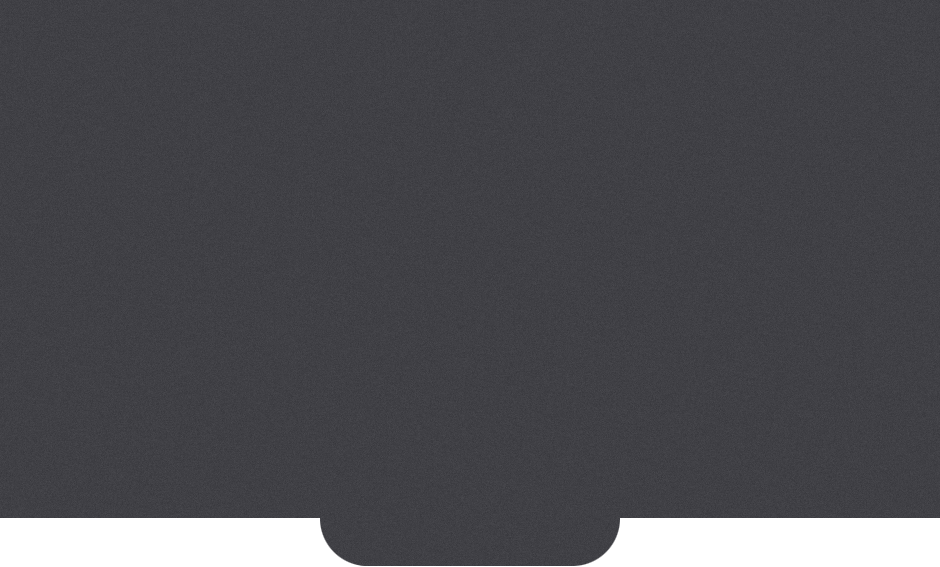
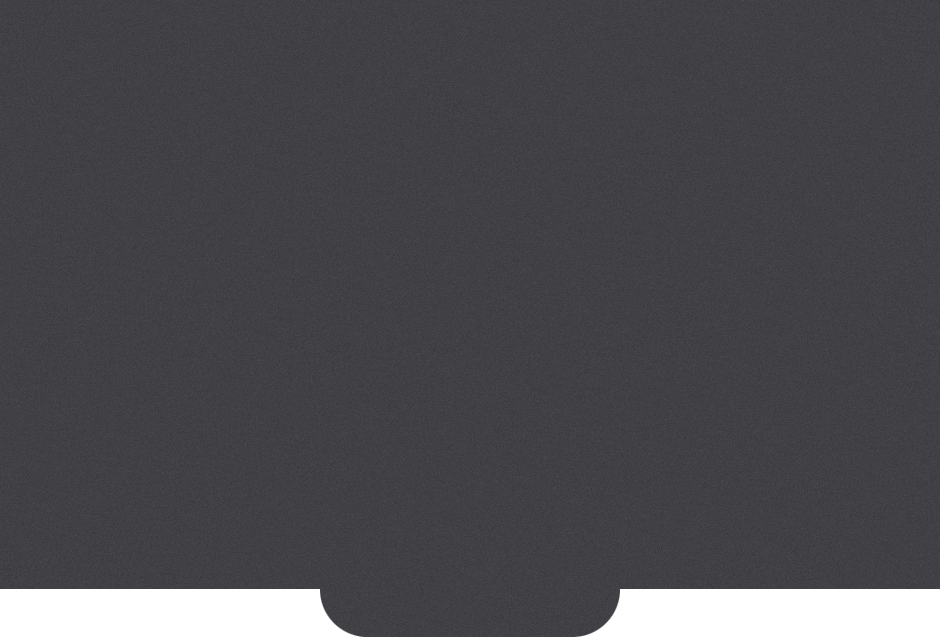
overhaul congress page, add franking text to widget generation page

diff --git a/site/templates/static/congress.html b/site/templates/static/congress.html
@@ -1,6 +1,6 @@
 {% extends "master.html" %}
 {% load registration_providers %}
-{% block title %}POPVOX - Your Voice. Verified. Quantified. Amplified.{% endblock %}
+{% block title %}POPVOX for Congress{% endblock %}
 {% block title2 %}{% endblock %}
 {% block description %}POPVOX bridges the gap between the input the public wants to provide and the information Members of Congress want and need to receive.{% endblock %}
 {% block bodyattributes %}class="land hm_congress"{% endblock %}
@@ -53,20 +53,20 @@ function subscribe(validate) {
 </div>
 <div class="clear"> </div>
 <div class="congress_mid">
-	<span><h3><a href="#">Let&rsquo;s get started</a></h3></span>
-	<div id="boxes"></div>
+	<span><h3><a href="/home">Let&rsquo;s get started</a></h3></span>
+	<div id="boxes"><center><div style="width:465px" id="__ss_12607898"><iframe src="http://www.slideshare.net/slideshow/embed_code/12607898?rel=0" width="425" height="355" frameborder="0" marginwidth="0" marginheight="0" scrolling="no" style="border:1px solid #CCC;border-width:1px 1px 0;margin-top:10px" allowfullscreen></iframe></center></div>
 	<div id="lists">
 		<ul class="first">
-			<li><a href="#">Create Widgets</a></li>
-			<li><a href="#">Get our iPad App</a></li>
+			<li><a href="/services/widgets">Create Widgets</a></li>
+			<li><a href="/ipad">Get our iPad App</a></li>
 		</ul>
 		<ul class="second">
-			<li><a href="#">View the Org Directory</a></li>
-			<li><a href="#">Use our API</a></li>
+			<li><a href="/orgs">View the Org Directory</a></li>
+			<li><a href="/api/docs">Use our API</a></li>
 		</ul>
 		<ul class="third">
-			<li><a href="#">Search for Bills</a></li>
-			<li><a href="#">Something else</a></li>
+			<li><a href="/bills">Browse Bills</a></li>
+			<li><a href="/gettoknow">Get To Know a District</a></li>
 		</ul>
 	</div>
 	
@@ -102,21 +102,7 @@ function subscribe(validate) {
 	
 	<div class="col_3 rule">
 		<div class="block signup">
-			<h2>Email Signup</h2>
-			<p>Want updates on what is new with POPVOX?</p>
-			<form id="signup_form" action="#" method="post" name="signup"><br />
-			
-				<input id="subscribe_email" class="signup_input" name="email" size="25" maxlength="60" type="text"><br />
-				
-				<p id="subscribe_status" class="error"></p>
-				
-				<input value="join" id="subscribe_button" onclick="return subscribe(false)" type="button">
-				<script>
-				$('.subscribe_email').input_default("email");
-				$('.signup_input').textchange(function() { subscribe(true); return true; });
-				$('.signup_input').keydown_enter(function() { return subscribe(false); });
-				</script>
-			</form>
+
 		</div>		
 	</div><!-- e: col_3 -->
 	

diff --git a/site/popvox/templates/popvox/services_widget_config.html b/site/popvox/templates/popvox/services_widget_config.html
@@ -352,7 +352,11 @@ function change_widget(tabname, is_initial) {
     }
 
     if (widgettype == "writecongress") {
-        $('#widget_description').html("The free “Write Congress” widget embeds the powerful POPVOX advocacy tool onto your own website. Your visitors weigh in on the bill you feature, POPVOX takes care of the rest!");
+        {% if franking == "true" %}
+            $('#widget_description').html("The free “Write Congress” widget embeds the powerful POPVOX advocacy tool onto your own website. Your visitors weigh in on the bill you feature, POPVOX takes care of the rest!");
+        {% else %}
+            $('#widget_description').html("The free “Write Congress” widget embeds the powerful POPVOX advocacy tool onto your own website. Your visitors weigh in on the bill you feature, POPVOX takes care of the rest!<br/><br/><em>Congressional Staff:</em> <a href='/accounts/register/legstaff'>sign up for a staff account</a> for a writecongress widget designed with franking in mind.");
+        {% endif %}
         $('#code').css({width: "450px"});
         $('.config_pane').css({width: '400px'});
         $('.preview_pane').css({width: '460px'});
@@ -609,8 +613,10 @@ function update_preview(is_initial) {
     if (widgettype == "bill_button") {
         $('#code2').show()
         $('#code2').val(make_code2("https://www.popvox.com", width, 21, false));
+        $('#preview2').show();
     } else {
         $('#code2').hide()
+        $('#preview2').hide();
     }
 
     fb_code = make_code("https://www.popvox.com", "520", height, false);

diff --git a/site/media/master/stylesheet.css b/site/media/master/stylesheet.css
@@ -3030,7 +3030,7 @@ body.land.hm_congress #wrap #head {
 	padding-left: 20px;
 }
 .hm_congress .congress_mid {
-	height: 564px;
+	height: 634px;
 	display: block;
 	background: url(cong_mid_bg.png) left top repeat;
 	padding-top: 2px;
@@ -3052,7 +3052,7 @@ body.land.hm_congress #wrap #head {
 }
 .hm_congress .congress_mid #boxes {
 	width: 890px;
-	height: 306px;
+	height: 376px;
 	background: url(boxes.png) left top no-repeat;
 	margin: 20px 0 0 30px;
 }
